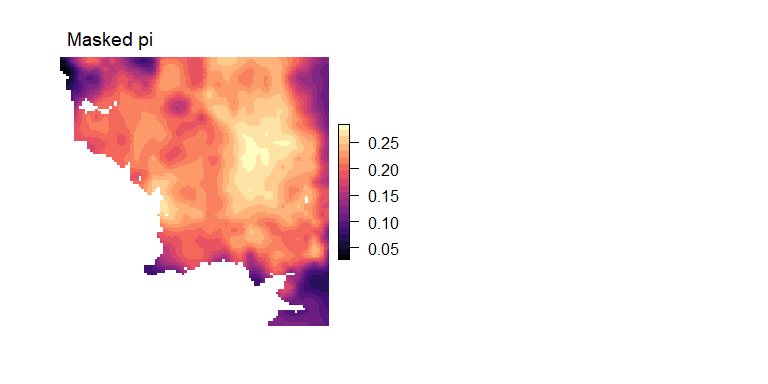
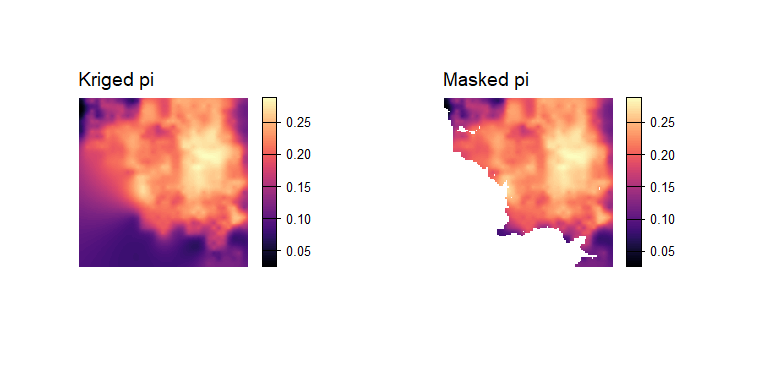
update README

Changed region(s): [[0.0625, 0.0938, 0.5312, 0.875], [0.5625, 0.1875, 0.875, 0.7188]]

diff --git a/README.md b/README.md
@@ -63,8 +63,8 @@ wgd <- window_gd(lotr_vcf,
 
 # Use plot_gd() to plot the genetic diversity layer and plot_count() to plot the sample counts layer
 par(mfrow = c(1, 2), oma = rep(1, 4), mar = rep(2, 4), pty = "s")
-plot_gd(wgd, bkg = lotr_range, main = "Moving window pi", legend.width = 1.5)
-plot_count(wgd, bkg = lotr_range, main = "Moving window sample counts", legend.width = 1.5)
+plot_gd(wgd, main = "Moving window pi", legend.width = 1.5)
+plot_count(wgd, main = "Moving window sample counts", legend.width = 1.5)
 ```
 
 <img src="man/figures/README-window_gd-1.png" width="100%" />
@@ -75,12 +75,7 @@ with the `krig_gd()` function.
 ``` r
 # Krige genetic diversity (disaggregate grid to project across a smoother final surface)
 kgd <- krig_gd(wgd, lotr_lyr, index = 1, disagg_grd = 2)
-
-par(mfrow = c(1, 2), oma = rep(1, 4), mar = rep(2, 4), pty = "s")
-plot_gd(kgd, main = "Kriged pi", legend.width = 1.5)
 ```
-
-<img src="man/figures/README-krig_gd-1.png" width="100%" />
 
 Finally, the output from `krig_gd()` (or `window_gd()`) can be masked to
 exclude areas that fall outside of the study area or that were
@@ -94,7 +89,10 @@ mgd <- mask_gd(kgd, lotr_range)
 ``` r
 # Plot results
 par(mfrow = c(1, 2), oma = rep(1, 4), mar = rep(2, 4), pty = "s")
-plot_gd(mgd, bkg = lotr_range, main = "Masked pi", legend.width = 1.5)
+
+plot_gd(kgd, main = "Kriged pi", legend.width = 1.5)
+
+plot_gd(mgd, main = "Masked pi", legend.width = 1.5)
 ```
 
 <img src="man/figures/README-result-1.png" width="100%" />
